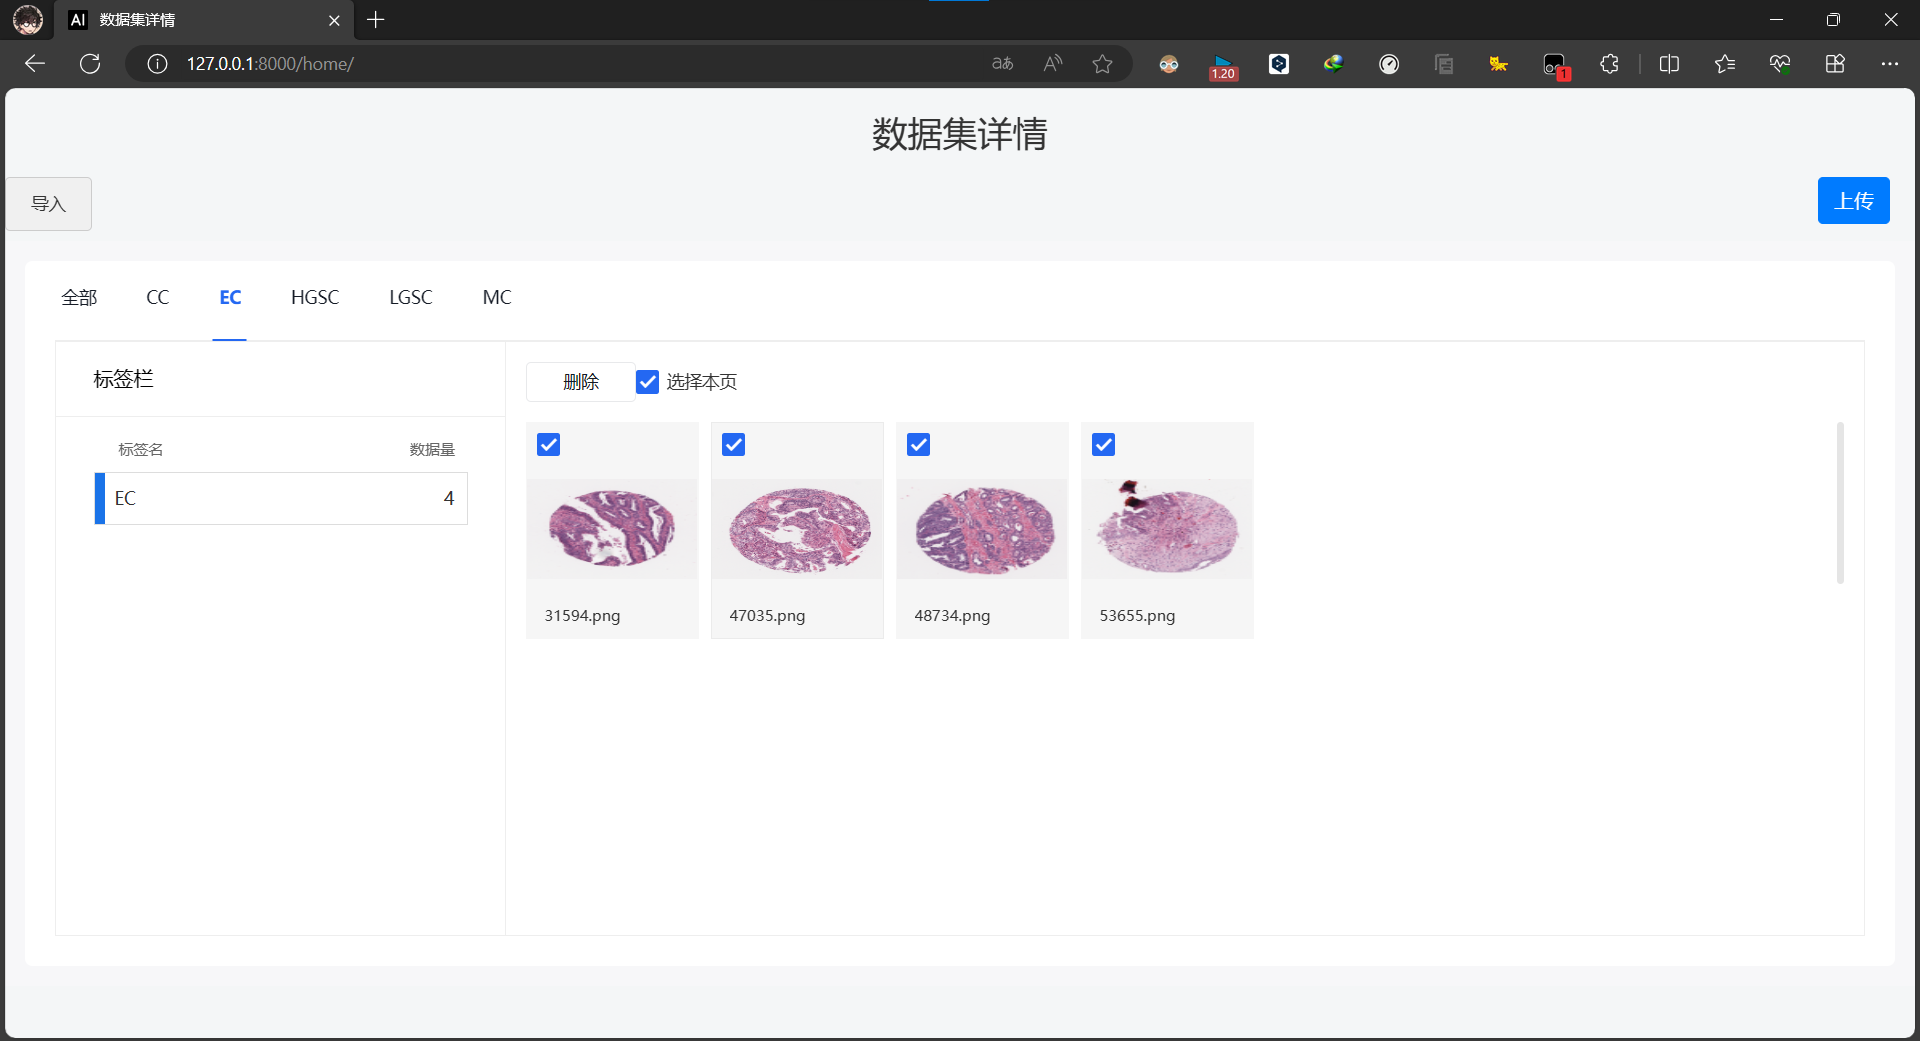
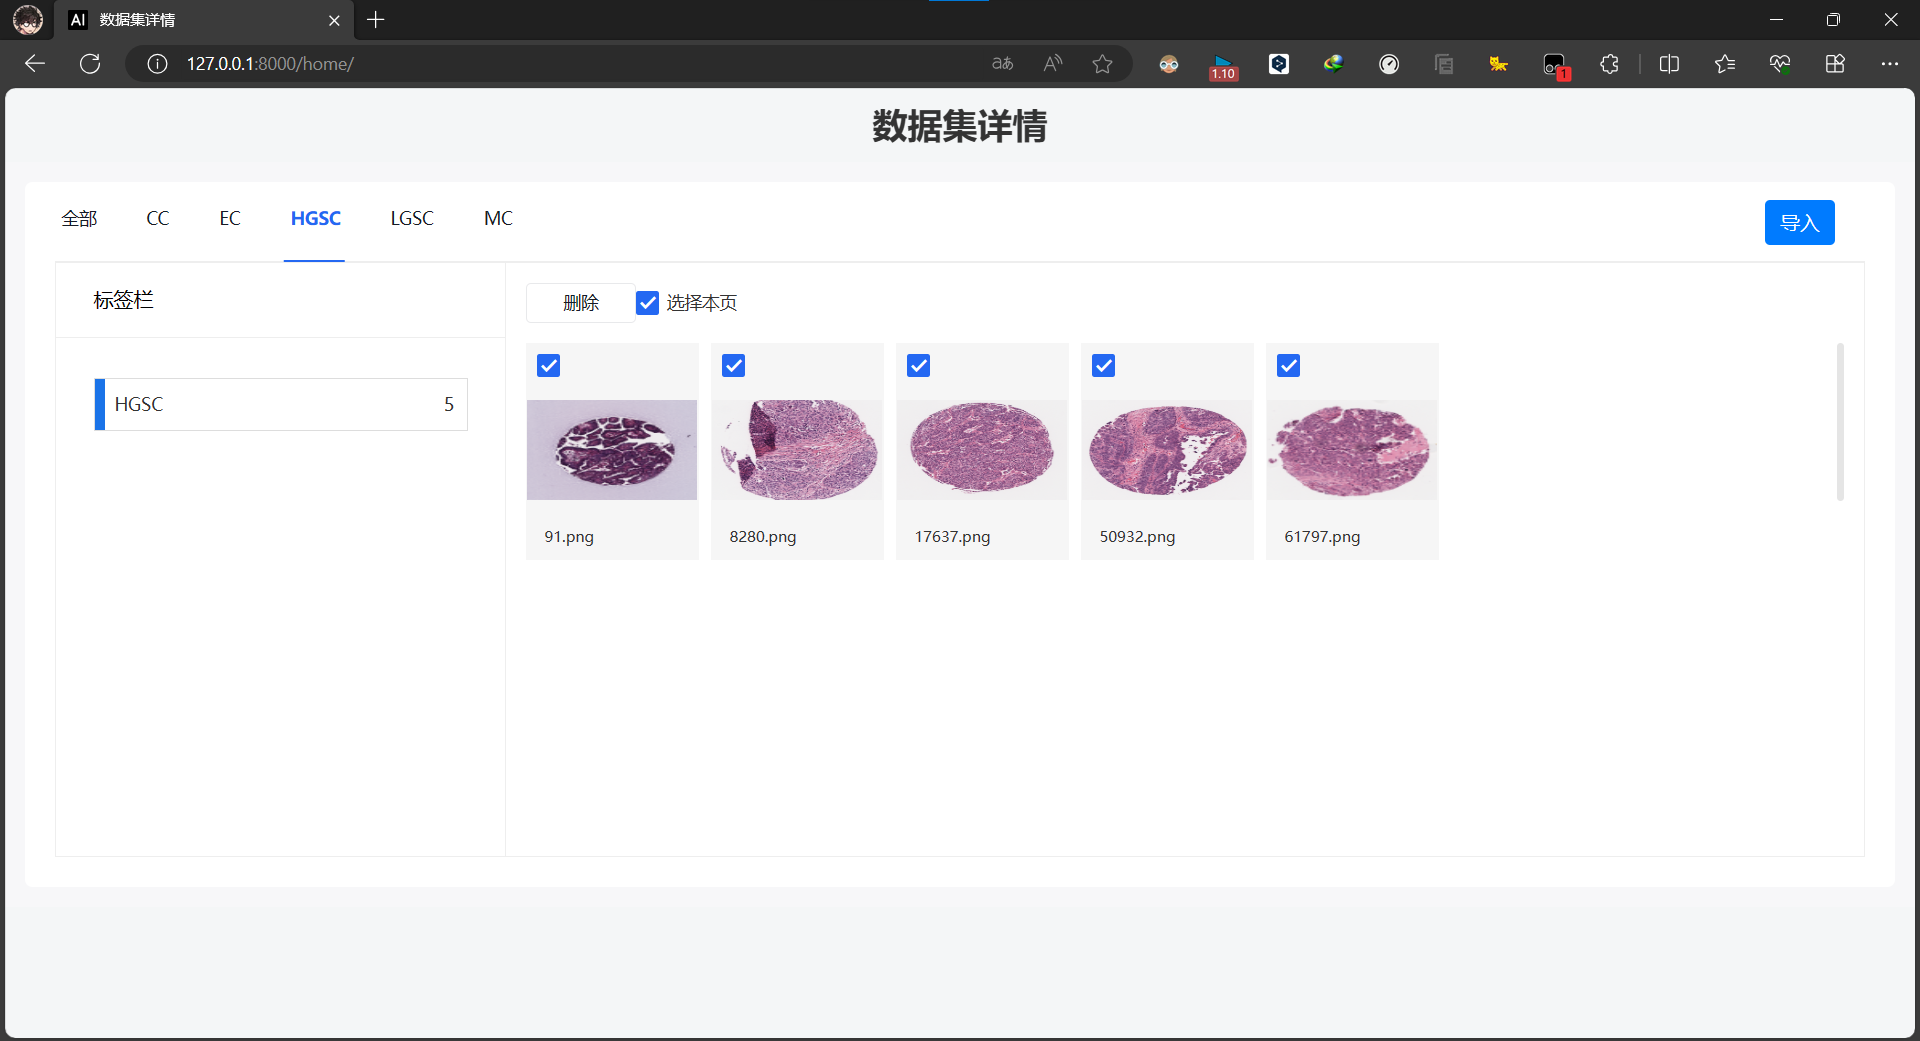
修改课设说明.md适配最新home页面，导入和上传合并成一个按钮

diff --git a/doc/课设说明.md b/doc/课设说明.md
@@ -6,7 +6,7 @@
 
 ![user](pic\user.jpg)
 
-![dataset](pic\dataset_main.png)
+![image-20231224115315297](D:\OCSIP\doc\pic\dataset_main_.png)
 
 ##### 登录页面
 
@@ -66,45 +66,43 @@
 
 ##### AI推理
 
-- 点击**导入**可以打开文件选择框选择要进行AI推理的图像文件，并会提示导入成功和图像信息
+- 点击**导入**可以打开文件选择框选择要进行AI推理的图像文件，并会显示加载动画
 
-  ![image-20231223221018521](pic\dataset_import.png)
+  ![image-20231224115414329](D:\OCSIP\doc\pic\dataset_import.png)
 
-  ![image-20231223221116746](pic\dataset_import_show.png)
+  ![image-20231224115445487](D:\OCSIP\doc\pic\dataset_import_loading.png)
 
-- 点击**上传**后并会加载并在后端进行AI推理并将该图片识别成某一类
+- 在后端进行AI推理并将该图片识别成某一类（本次识别成**LGSC**类）
 
-  ![image-20231223221204403](pic\dataset_submit_loading.png)
-  
-  ![image-20231223221248735](pic\dataset_submit.png)
+  ![image-20231224115558482](D:\OCSIP\doc\pic\dataset_import_show.png)
 
 ##### 数据管理
 
 - 点击上方各个标签可以切换到对应标签下的所有图像，并且标签栏的切换会伴随切换动画
 
-  ![image-20231223221404796](pic\dataset_switch.png)
+  ![image-20231224115648634](D:\OCSIP\doc\pic\dataset_switch.png)
 
 - 点击任一图像会在左侧显示该图像对应详细信息
 
-  ![image-20231223221446012](pic\dataset_img_info.png)
+  ![image-20231224115731290](D:\OCSIP\doc\pic\dataset_img_info.png)
 
 - 点击各图像上方的复选框可以勾选图像，并可进一步删除对应图像
 
-  ![image-20231223221539039](pic\dataset_checkbox.png)
-
-  ![image-20231223221622211](pic\dataset_delete_checkbox.png)
+  ![image-20231224115755466](D:\OCSIP\doc\pic\dataset_checkbox.png)
 
 - 全选本页可以实现批量删除
 
-  ![image-20231223221647743](pic\dataset_delete_all.png)
-
-  ![image-20231223221709001](pic\dataset_delete_all_.png)
+  ![image-20231224115839042](D:\OCSIP\doc\pic\dataset_delete_all.png)
 
 - 其他细节
 
-  - 将鼠标悬浮在右侧标签栏会悬浮显示标签中文信息
+  - 将鼠标悬浮在左侧标签栏会悬浮显示标签中文信息
 
-    ![image-20231223221853859](pic\dataset_label_zh.png)
+    ![image-20231224115934168](D:\OCSIP\doc\pic\dataset_label_zh.png)
+    
+  - 鼠标悬浮在图像上会悬浮显示图像信息
+  
+    ![image-20231224120056988](D:\OCSIP\doc\pic\dataset_label_info.png)
 
 #### 后台
 
